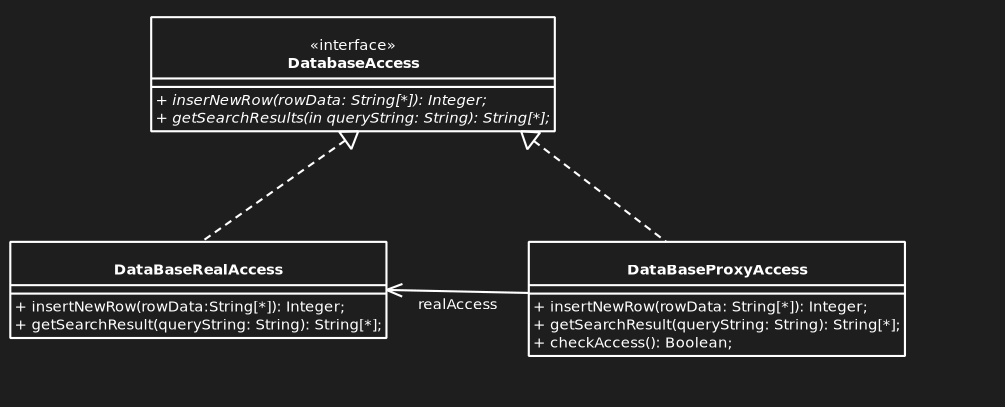
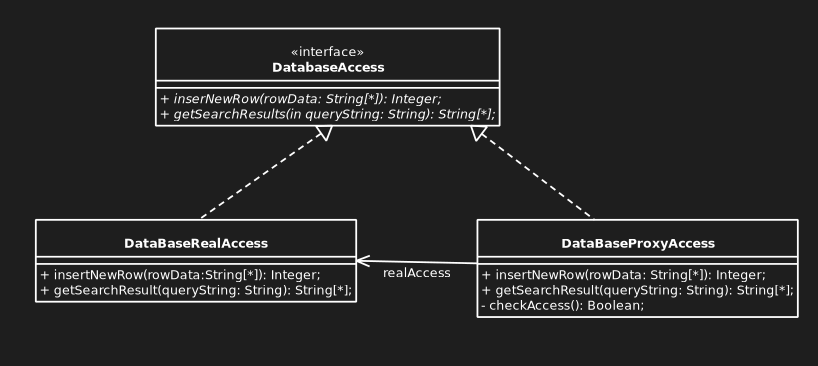
Modify a little bit of uml and implementation of exercise 17

diff --git a/Ejercicios-2025/Patrones/Ejercicio17-AccesoBD/src/main/java/ar/edu/unlp/info/oo2/accesobd/DataBaseProxy.java b/Ejercicios-2025/Patrones/Ejercicio17-AccesoBD/src/main/java/ar/edu/unlp/info/oo2/accesobd/DataBaseProxy.java
@@ -24,7 +24,7 @@ public class DataBaseProxy implements DatabaseAccess{
 		
 	}
 	
-	public boolean checkAccess() {
+	private boolean checkAccess() {
 		return true;
 	}
 }
